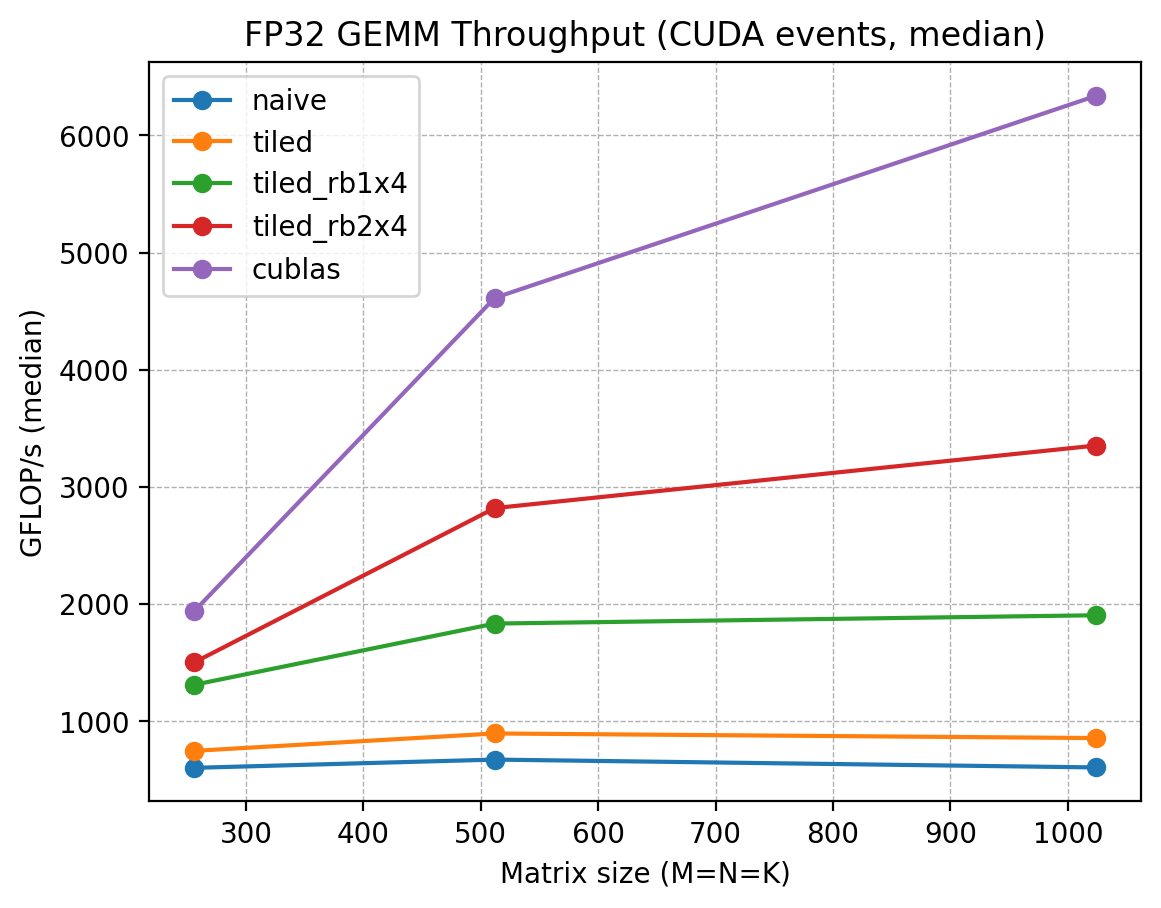
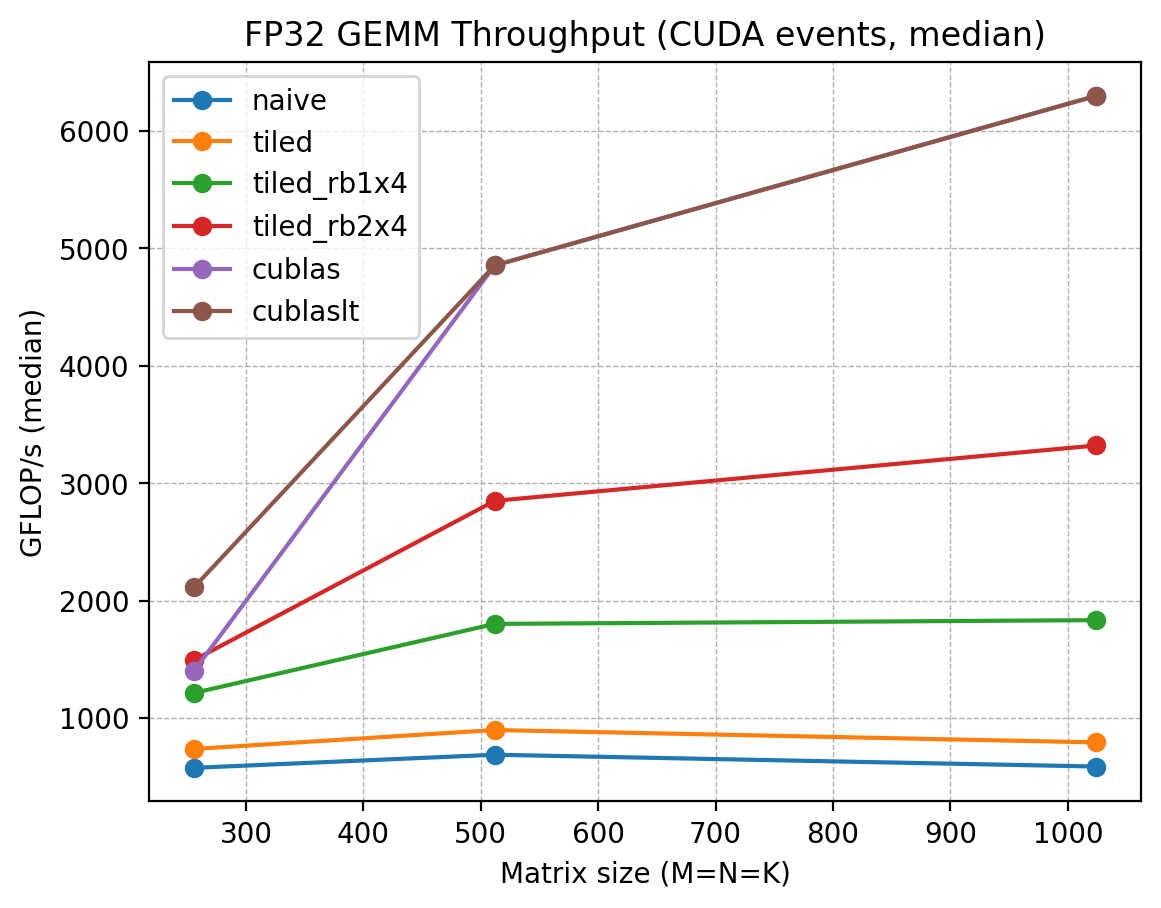
接入cublaslt，更新results/raw/bench_fp32数据与results/plots/gflops_fp32.png图像

diff --git a/scripts/plot.py b/scripts/plot.py
@@ -40,7 +40,7 @@ with open(INPUT, "r", encoding="utf-8", errors="ignore") as f:
             cur_size = None
 
 # 需要的 impl 顺序（按你 README 展示）
-order = ["naive", "tiled", "tiled_rb1x4", "tiled_rb2x4", "cublas"]
+order = ["naive", "tiled", "tiled_rb1x4", "tiled_rb2x4", "cublas", "cublaslt"]
 
 # sizes 取交集并排序
 all_sizes = set()
@@ -66,28 +66,28 @@ plt.savefig(out1, dpi=200, bbox_inches="tight")
 plt.close()
 
 # --- 图2：Relative to cuBLAS ---
-if "cublas" in data:
+if "cublaslt" in data:
     plt.figure()
-    cublas = data["cublas"]
+    cublaslt = data["cublaslt"]
     for impl in ["tiled_rb1x4", "tiled_rb2x4"]:
         if impl not in data:
             continue
         ys = []
         for s in sizes:
-            if s in data[impl] and s in cublas and cublas[s] != 0:
-                ys.append(100.0 * data[impl][s] / cublas[s])
+            if s in data[impl] and s in cublaslt and cublaslt[s] != 0:
+                ys.append(100.0 * data[impl][s] / cublaslt[s])
             else:
                 ys.append(float("nan"))
-        plt.plot(sizes, ys, marker="o", label=f"{impl}/cublas")
+        plt.plot(sizes, ys, marker="o", label=f"{impl}/cublaslt")
     plt.xlabel("Matrix size (M=N=K)")
-    plt.ylabel("Percent of cuBLAS (%)")
-    plt.title("Relative Throughput vs cuBLAS (FP32)")
+    plt.ylabel("Percent of cuBLASLT (%)")
+    plt.title("Relative Throughput vs cuBLASLT (FP32)")
     plt.legend()
     plt.grid(True, which="both", linestyle="--", linewidth=0.5)
-    out2 = OUT_DIR / "rel_to_cublas_fp32.png"
+    out2 = OUT_DIR / "rel_to_cublaslt_fp32.png"
     plt.savefig(out2, dpi=200, bbox_inches="tight")
     plt.close()
 
 print(f"[OK] Parsed: {INPUT}")
 print(f"[OK] Wrote: {out1}")
-print(f"[OK] Wrote: {OUT_DIR / 'rel_to_cublas_fp32.png'}")
+print(f"[OK] Wrote: {OUT_DIR / 'rel_to_cublaslt_fp32.png'}")
